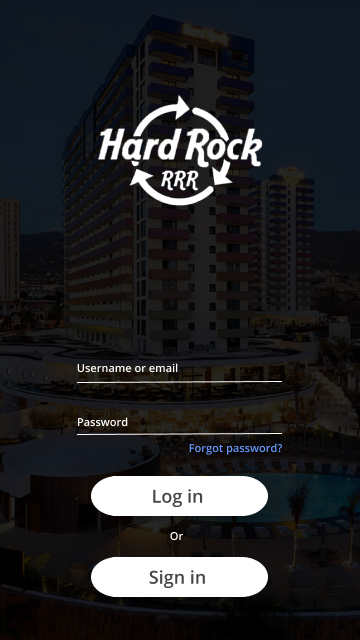
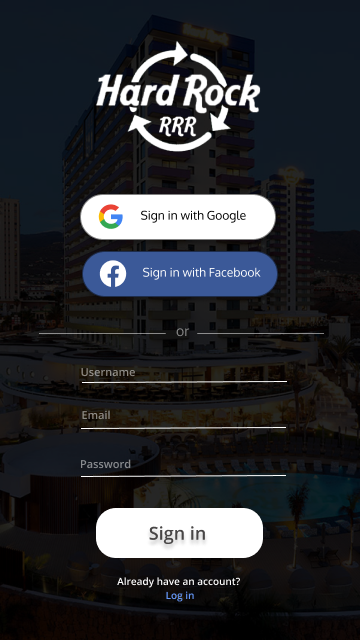
Añadida la pagina de sign in

diff --git a/index.html b/index.html
@@ -1,7 +1,7 @@
 <!DOCTYPE html>
 <html>
 <body>
-<img src="images/home-page.png" alt="home">
+<img src="images/Login.png" alt="Sign in">
 <script type="application/ld+json">
     {
         "@context": "https://schema.org",
@@ -24,8 +24,8 @@
         },
         "priceRange": "100€ - 900€"
     }
-</script>
-<a href="overlay-user.html">Navbar Overlay</a>
+</script>  
+<a href="home-page.html">Home</a>
+<a href="sign-in.html">Sign in</a>
 </body>
 </html>
-

diff --git a/sign-in.html b/sign-in.html
@@ -1,0 +1,8 @@
+<!DOCTYPE html>
+<html>
+<body>
+<img src="images/signin.png" alt="user-profile">
+<a href="index.html">Login</a>
+<a href="home-page.html">Home</a>  
+</body>
+</html>
